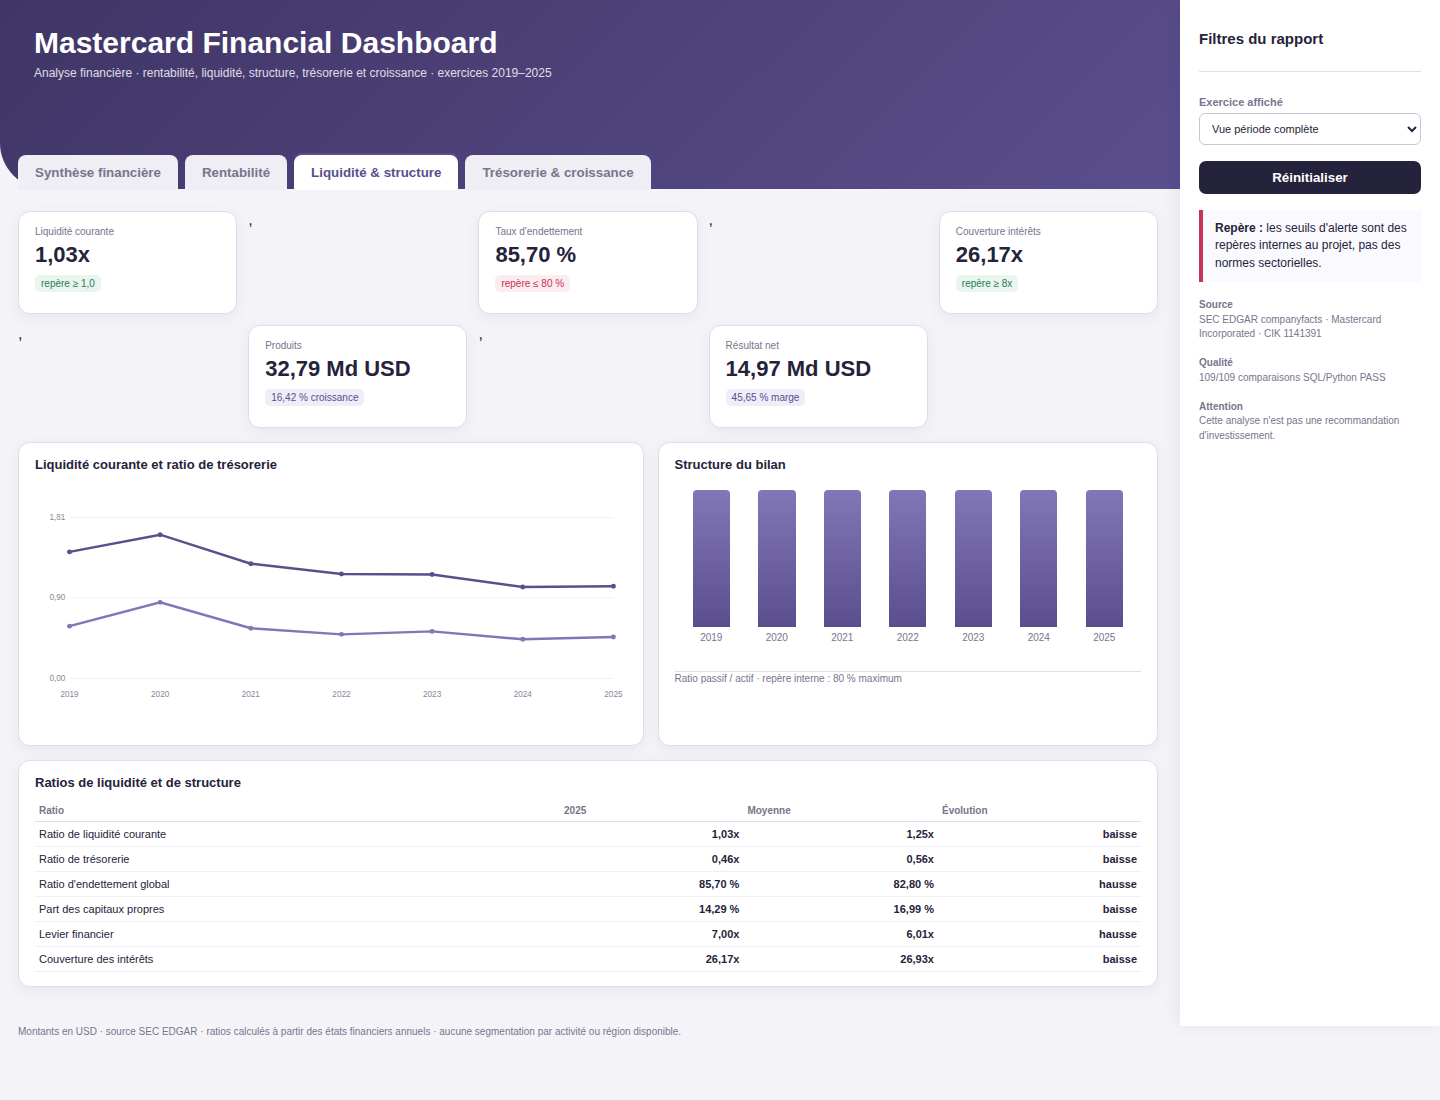
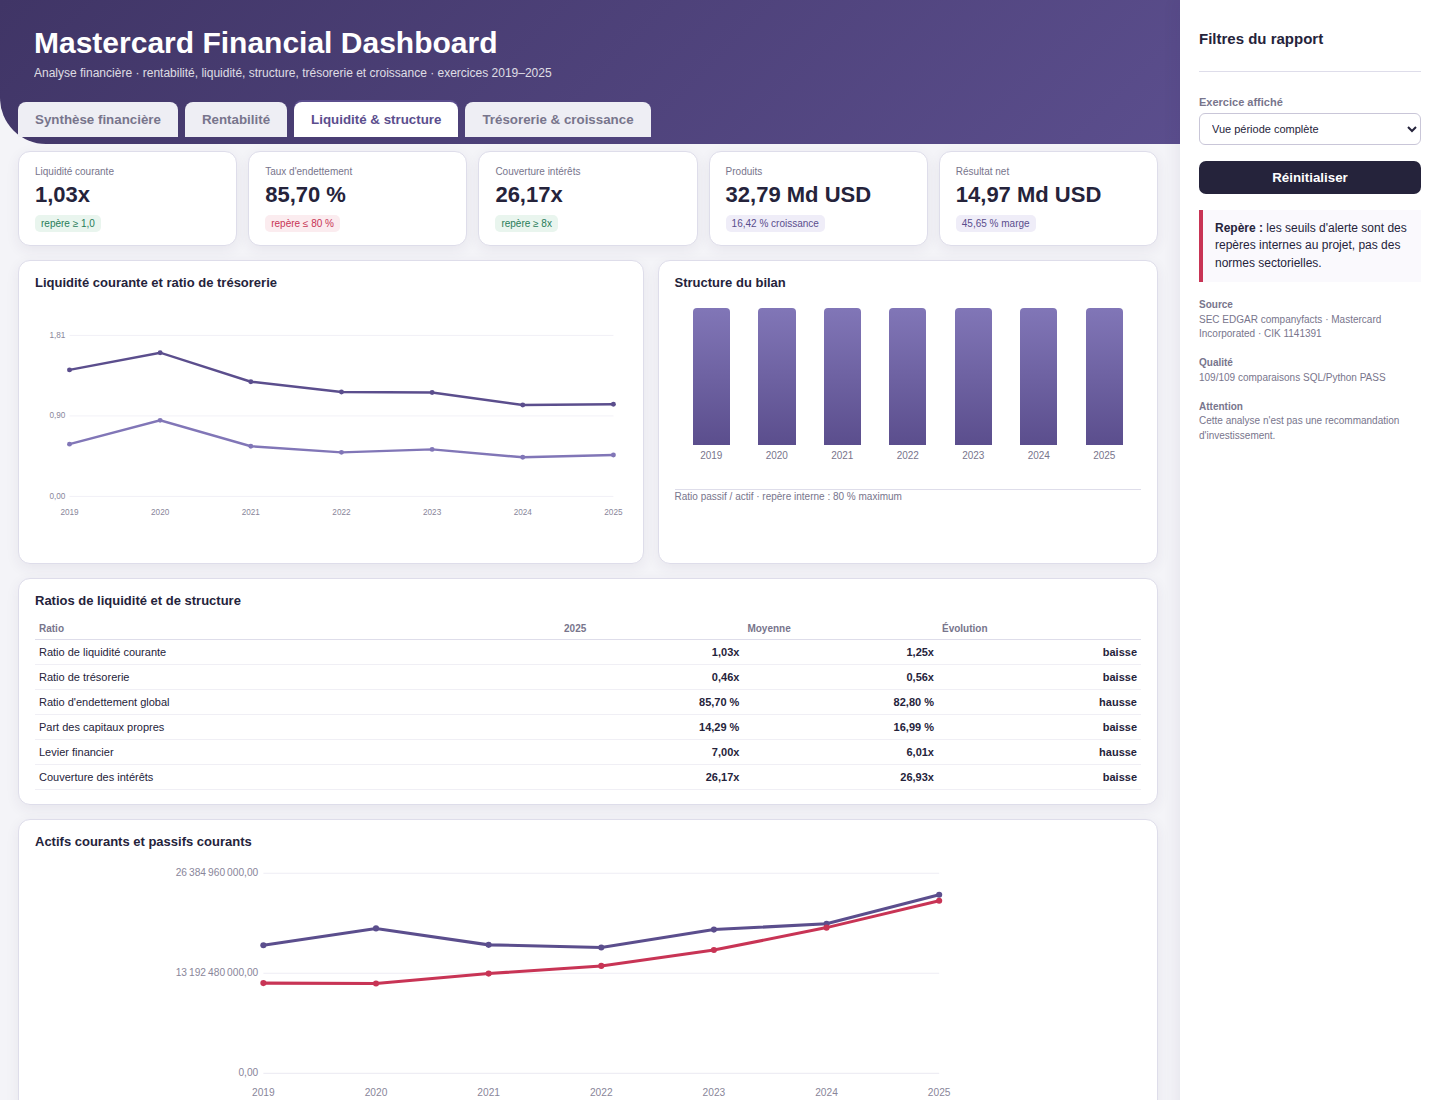
Enrichir les graphiques du dashboard web du projet 06

diff --git a/projects/06-analyse-financiere/dashboard/web/index.html b/projects/06-analyse-financiere/dashboard/web/index.html
@@ -18,10 +18,10 @@ function lineSvg(series,keys,colors){const w=720,h=240,l=42,r=16,t=14,b=30;let m
 function bars(vals,labels,format=money){let mx=Math.max(...vals)||1;return `<div class="barwrap">${vals.map((v,i)=>`<div class="barcol"><div class="bar" style="height:${Math.max(2,v/mx*160)}px" title="${format(v)}"></div><span class="barlabel">${labels[i]}</span></div>`).join('')}</div>`}
 function alerts(){return D.alerts.map(a=>`<div class="alert"><span>${a.label_fr}</span><span class="status ${a.status==='CONFORME'?'ok':'warn'}">${a.status}</span></div>`).join('')}
 function ratioTable(categories){let rs=D.ratios.filter(x=>categories.includes(x.category));return `<table><tr><th>Ratio</th><th>2025</th><th>Moyenne</th><th>Évolution</th></tr>${rs.map(x=>`<tr><td>${x.label_fr}</td><td class="right">${x.unit==='proportion'?pct(x.last_value):ratio(x.last_value)}</td><td class="right">${x.unit==='proportion'?pct(x.mean):ratio(x.mean)}</td><td class="right">${x.direction}</td></tr>`).join('')}</table>`}
-function pageHtml(){const a=D.annual, r=row(), base=D.annual[0], last=a[a.length-1]; if(page==='synthese')return `<div class="grid"><div class="card"><h3>Produits et résultat d'exploitation par exercice</h3>${bars(a.map(x=>x.revenue),years.map(String))}</div><div class="card"><h3>Statut des repères financiers · 2025</h3>${alerts()}</div><div class="card wide"><h3>Marges opérationnelle et nette</h3>${lineSvg([{values:a.map(x=>x.operating_margin)},{values:a.map(x=>x.net_margin)}],years,['#5b4e8d','#c83455'])}<div class="note">Violet : marge opérationnelle · Rouge : marge nette</div></div></div>`;
-if(page==='rentabilite')return `<div class="grid"><div class="card"><h3>ROE et ROA</h3>${lineSvg([{values:a.map(x=>x.roe)},{values:a.map(x=>x.roa)}],years,['#5b4e8d','#c83455'])}</div><div class="card"><h3>Lecture</h3><div class="callout">Le ROE 2025 atteint <b>${pct(r.roe)}</b>. Il doit être lu avec le ROA (${pct(r.roa)}) et le levier comptable.</div><p class="note">La marge opérationnelle 2025 est ${pct(r.operating_margin)}, contre ${pct(a[a.length-2].operating_margin)} en 2024.</p></div><div class="card wide"><h3>Ratios de rentabilité</h3>${ratioTable(['Rentabilité'])}</div></div>`;
-if(page==='liquidite')return `<div class="grid"><div class="card"><h3>Liquidité courante et ratio de trésorerie</h3>${lineSvg([{values:a.map(x=>x.current_ratio)},{values:a.map(x=>x.cash_ratio)}],years,['#5b4e8d','#8176b7'])}</div><div class="card"><h3>Structure du bilan</h3>${bars(a.map(x=>x.debt_ratio),years.map(String),pct)}<div class="note">Ratio passif / actif · repère interne : 80 % maximum</div></div><div class="card wide"><h3>Ratios de liquidité et de structure</h3>${ratioTable(['Liquidité','Structure'])}</div></div>`;
-return `<div class="grid"><div class="card"><h3>Flux d'exploitation, investissements et flux disponible</h3>${bars(a.map(x=>x.fcf),years.map(String))}</div><div class="card"><h3>Croissance annuelle des produits</h3>${lineSvg([{values:a.map(x=>x.revenue_growth||0)}],years,['#5b4e8d'])}<div class="note">La première année n'a pas de croissance calculée.</div></div><div class="card wide"><h3>Indicateurs de trésorerie</h3><table><tr><th>Exercice</th><th>Flux disponible</th><th>Marge FCF</th><th>Intensité capex</th></tr>${a.map(x=>`<tr><td>${x.fiscal_year}</td><td class="right">${money(x.fcf)}</td><td class="right">${pct(x.fcf_margin)}</td><td class="right">${pct(x.capex_intensity)}</td></tr>`).join('')}</table></div></div>`}
+function pageHtml(){const a=D.annual, r=row(), base=D.annual[0], last=a[a.length-1]; if(page==='synthese')return `<div class="grid"><div class="card"><h3>Produits et résultat d'exploitation par exercice</h3>${bars(a.map(x=>x.revenue),years.map(String))}</div><div class="card"><h3>Statut des repères financiers · 2025</h3>${alerts()}</div><div class="card wide"><h3>Marges opérationnelle et nette</h3>${lineSvg([{values:a.map(x=>x.operating_margin)},{values:a.map(x=>x.net_margin)}],years,['#5b4e8d','#c83455'])}<div class="note">Violet : marge opérationnelle · Rouge : marge nette</div></div><div class="card"><h3>Flux disponible par exercice</h3>${bars(a.map(x=>x.fcf),years.map(String))}</div><div class="card"><h3>Trésorerie disponible</h3>${lineSvg([{values:a.map(x=>x.cash)}],years,['#8176b7'])}</div></div>`;
+if(page==='rentabilite')return `<div class="grid"><div class="card"><h3>ROE et ROA</h3>${lineSvg([{values:a.map(x=>x.roe)},{values:a.map(x=>x.roa)}],years,['#5b4e8d','#c83455'])}</div><div class="card"><h3>Lecture</h3><div class="callout">Le ROE 2025 atteint <b>${pct(r.roe)}</b>. Il doit être lu avec le ROA (${pct(r.roa)}) et le levier comptable.</div><p class="note">La marge opérationnelle 2025 est ${pct(r.operating_margin)}, contre ${pct(a[a.length-2].operating_margin)} en 2024.</p></div><div class="card wide"><h3>Ratios de rentabilité</h3>${ratioTable(['Rentabilité'])}</div><div class="card wide"><h3>Marge nette et taux d'impôt effectif</h3>${lineSvg([{values:a.map(x=>x.net_margin)},{values:a.map(x=>x.effective_tax_rate)}],years,['#c83455','#8176b7'])}</div></div>`;
+if(page==='liquidite')return `<div class="grid"><div class="card"><h3>Liquidité courante et ratio de trésorerie</h3>${lineSvg([{values:a.map(x=>x.current_ratio)},{values:a.map(x=>x.cash_ratio)}],years,['#5b4e8d','#8176b7'])}</div><div class="card"><h3>Structure du bilan</h3>${bars(a.map(x=>x.debt_ratio),years.map(String),pct)}<div class="note">Ratio passif / actif · repère interne : 80 % maximum</div></div><div class="card wide"><h3>Ratios de liquidité et de structure</h3>${ratioTable(['Liquidité','Structure'])}</div><div class="card wide"><h3>Actifs courants et passifs courants</h3>${lineSvg([{values:a.map(x=>x.current_assets)},{values:a.map(x=>x.current_liabilities)}],years,['#5b4e8d','#c83455'])}</div></div>`;
+return `<div class="grid"><div class="card"><h3>Flux d'exploitation, investissements et flux disponible</h3>${bars(a.map(x=>x.fcf),years.map(String))}</div><div class="card"><h3>Croissance annuelle des produits</h3>${lineSvg([{values:a.map(x=>x.revenue_growth||0)}],years,['#5b4e8d'])}<div class="note">La première année n'a pas de croissance calculée.</div></div><div class="card wide"><h3>Indicateurs de trésorerie</h3><table><tr><th>Exercice</th><th>Flux disponible</th><th>Marge FCF</th><th>Intensité capex</th></tr>${a.map(x=>`<tr><td>${x.fiscal_year}</td><td class="right">${money(x.fcf)}</td><td class="right">${pct(x.fcf_margin)}</td><td class="right">${pct(x.capex_intensity)}</td></tr>`).join('')}</table></div><div class="card"><h3>Trésorerie et flux disponible</h3>${lineSvg([{values:a.map(x=>x.cash)},{values:a.map(x=>x.fcf)}],years,['#8176b7','#c83455'])}</div><div class="card"><h3>Couverture des intérêts</h3>${lineSvg([{values:a.map(x=>x.interest_coverage)}],years,['#5b4e8d'])}</div></div>`}
 function render(){let r=row(),prev=D.annual[D.annual.length-2];document.getElementById('tabs').innerHTML=tabs.map(x=>`<button class="${x[0]===page?'active':''}" data-page="${x[0]}">${x[1]}</button>`).join('');document.querySelectorAll('[data-page]').forEach(b=>b.onclick=()=>{page=b.dataset.page;render()});const kpiCards=page==='synthese'? [kpi('Produits',money(r.revenue),`${pct(r.revenue_growth||0)} vs ${r.fiscal_year-1}`,'green'),kpi('Résultat net',money(r.net_income),pct(r.net_margin)+' marge'),kpi('Marge opérationnelle',pct(r.operating_margin),'repère ≥ 40 %','green'),kpi('Flux disponible',money(r.fcf),pct(r.fcf_margin)+' des produits','green'),kpi('BPA dilué',nf(r.eps_diluted,2)+' USD',`${pct(r.eps_growth||0)} croissance`)] : page==='rentabilite'?[kpi("Résultat d'exploitation",money(r.operating_income),pct(r.operating_margin)+' marge'),kpi('Marge nette',pct(r.net_margin),'résultat net / produits'),kpi('ROE',pct(r.roe),'à lire avec le ROA'),kpi('ROA',pct(r.roa),'rentabilité de l’actif'),kpi("Taux d'impôt",pct(r.effective_tax_rate),'effectif')] : page==='liquidite'?[kpi('Liquidité courante',ratio(r.current_ratio),'repère ≥ 1,0','green'),kpi("Taux d'endettement",pct(r.debt_ratio),'repère ≤ 80 %','red'),kpi('Couverture intérêts',ratio(r.interest_coverage),'repère ≥ 8x','green'),kpi('Produits',money(r.revenue),`${pct(r.revenue_growth||0)} croissance`),kpi('Résultat net',money(r.net_income),pct(r.net_margin)+' marge')] : [kpi('Flux disponible',money(r.fcf),pct(r.fcf_margin)+' des produits','green'),kpi('Marge FCF',pct(r.fcf_margin),'conversion en cash'),kpi('Croissance produits',pct(r.revenue_growth||0),'variation annuelle','green'),kpi('Produits',money(r.revenue),`exercice ${r.fiscal_year}`),kpi('BPA dilué',nf(r.eps_diluted,2)+' USD',`${pct(r.eps_growth||0)} croissance`)];document.getElementById('kpis').innerHTML=kpiCards.join('');document.getElementById('content').innerHTML=pageHtml()}
 D.annual.forEach(x=>document.getElementById('year').innerHTML+=`<option value="${x.fiscal_year}">${x.fiscal_year}</option>`);document.getElementById('year').onchange=e=>{selected=e.target.value;render()};document.getElementById('reset').onclick=()=>{selected='all';document.getElementById('year').value='all';render()};render();
 </script></body></html>
